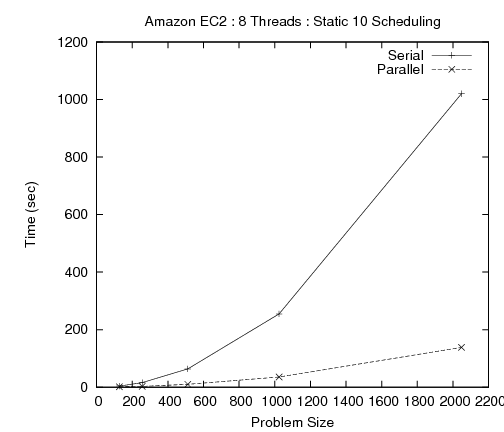
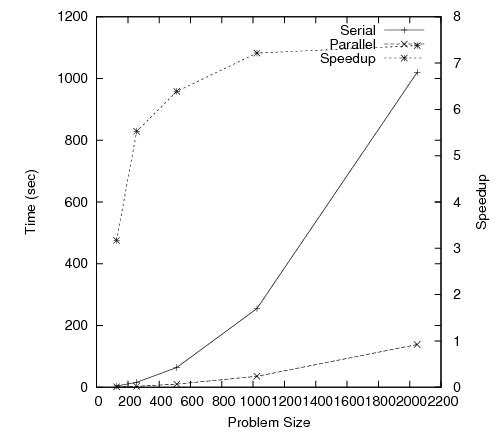
homework5: continued timing tests and continued writing report.

diff --git a/docs/report.tex b/docs/report.tex
@@ -27,6 +27,10 @@ The standard \verb!#pragma omp parallel for! directive was used in front of the 
 
 \section{Performance Analysis}
 
+Performance tests were performed on three different computer systems: an 8 core Ubuntu box using 2.33GHz Intel Xeon CPUs hosted on Amazon EC2, a 2 core node on the GMU cds cluster, and an 8 core node on the GMU gmice cluster. In each case tests were performed varying the problem size, number of threads, and thread scheduling techniques.
+
+Figure \ref{amazon_n} demonstrate the effect of increasing problem size on the 8 core Amazon EC2 node. For all problem sizes, the parallel OpenMP code used static scheduling with a chunk size of 10. The most striking observation from these results is the sharp dropoff in speedup as the probem size (the number of rows or columns in the discretized Mandelbrot set) falls below 1024. Presumably using OpenMP adds some amount of overhead to the code as threads must be created and destroyed (there should be no synchronization overhead in this code). That overhead might begin to overwhelm the performance gains due to multithreading for small problem sizes. However, this is hard to believe due to the lightweight nature of threads (creating and destroying them is a very fast operation). The other possible explanation for the performance dropoff is that the ratio of chunk size to total problem size becomes larger and larger as the total problem size shrinks. This makes it more likely that one thread could be assigned a particularly computationally intensive portion of the Mandelbrot set.
+
 \begin{figure}
 \centering
 \includegraphics[width=0.7\textwidth]{../data/amazon_n.png}
